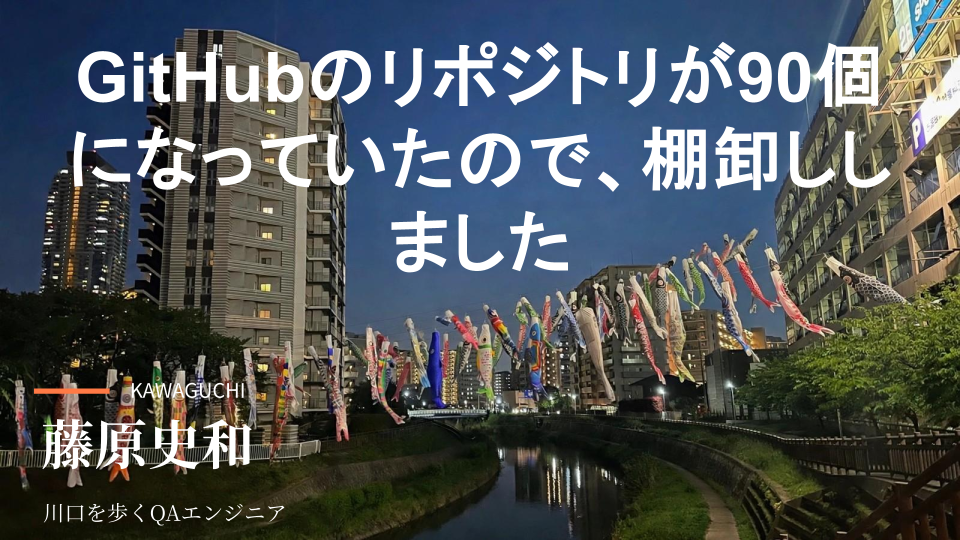
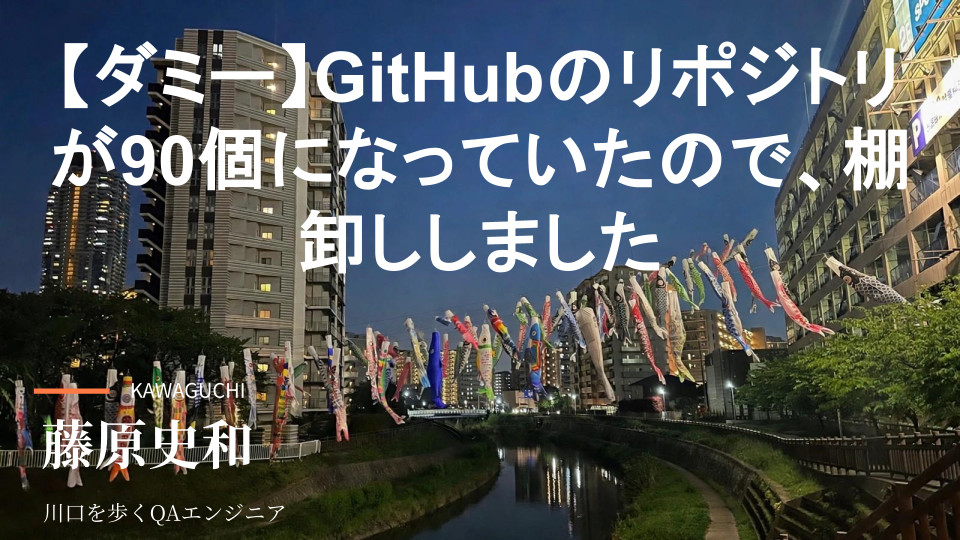
deploy: 642583110a407d07a9106808d49811a72313e3a2

Changed region(s): [[0.0625, 0.0593, 0.9375, 0.2074], [0.0312, 0.237, 0.9688, 0.3556], [0.3125, 0.3852, 0.6875, 0.5037]]

diff --git a/staging/1XYII5r8CBgQWmg8mCGA5wUe8JtIJSusXbUbw-T1SDvE.html b/staging/1XYII5r8CBgQWmg8mCGA5wUe8JtIJSusXbUbw-T1SDvE.html
@@ -1,0 +1,67 @@
+<!DOCTYPE html>
+<html lang="ja">
+  <head>
+    <meta charset="UTF-8" />
+    <meta name="viewport" content="width=device-width, initial-scale=1.0" />
+    <link rel="preconnect" href="https://fonts.googleapis.com">
+    <link rel="preconnect" href="https://fonts.gstatic.com" crossorigin>
+    <link rel="preconnect" href="https://script.google.com">
+    <link rel="preconnect" href="https://script.googleusercontent.com" crossorigin>
+    <link href="https://fonts.googleapis.com/css2?family=Shippori+Mincho+B1:wght@700;800&family=Zen+Kaku+Gothic+New:wght@400;500;700&display=swap" rel="stylesheet">
+    <link rel="icon" href="/blog/favicon.ico" sizes="any">
+    <link rel="icon" type="image/png" sizes="32x32" href="/blog/favicon-32.png">
+    <link rel="icon" type="image/png" sizes="16x16" href="/blog/favicon-16.png">
+    <link rel="apple-touch-icon" sizes="180x180" href="/blog/apple-touch-icon.png">
+    <meta property="og:title" content="2026-11-16 ブログ運営の裏側：ブログの中で、音楽が聴けるようになりました" />
+    <meta property="og:description" content="このブログの運営の裏側の話です。 川口の散歩やサイクリングの映像に、Sunoで作ったオリジナル曲を合わせる「SunoリリックVlog」を続けています。これまでは、曲を聴くにはSunoのページへ移動してもらう形でした。今回、まとめ記事の中にプ" />
+    <meta property="og:type" content="article" />
+    <meta property="og:url" content="https://freddiefujiwara.com/blog/staging/1XYII5r8CBgQWmg8mCGA5wUe8JtIJSusXbUbw-T1SDvE" />
+    <meta property="og:image" content="https://freddiefujiwara.com/blog/staging/ogp/1XYII5r8CBgQWmg8mCGA5wUe8JtIJSusXbUbw-T1SDvE.png" />
+    <meta property="og:image:width" content="1200" />
+    <meta property="og:image:height" content="630" />
+    <meta property="og:site_name" content="藤原史和｜川口を歩くQAエンジニア" />
+    <meta name="twitter:card" content="summary_large_image" />
+    <meta name="twitter:image" content="https://freddiefujiwara.com/blog/staging/ogp/1XYII5r8CBgQWmg8mCGA5wUe8JtIJSusXbUbw-T1SDvE.png" />
+    <script>
+      (function () {
+        var l = window.location;
+
+        // 404.html から /blog/?/xxx にされている想定
+        if (l.search && l.search.startsWith('?/')) {
+          var route = l.search.slice(2); // "xxx..."
+
+          // route に &a=b が混ざる可能性があるので分離
+          var extra = '';
+          var ampIndex = route.indexOf('&');
+          if (ampIndex !== -1) {
+            extra = '?' + route.slice(ampIndex + 1);
+            route = route.slice(0, ampIndex);
+          }
+
+          // /blog/ + route へ戻す（末尾/を1回だけ調整）
+          var base = l.pathname; // "/blog/"
+          if (!base.endsWith('/')) base += '/';
+          var newUrl = base + route + extra + l.hash;
+
+          window.history.replaceState(null, '', newUrl);
+        }
+      })();
+    </script>
+    <title>2026-11-16 ブログ運営の裏側：ブログの中で、音楽が聴けるようになりました</title>
+      <!-- Google tag (gtag.js) -->
+    <script async src="https://www.googletagmanager.com/gtag/js?id=G-W2C6FNCW86"></script>
+    <script>
+      window.dataLayer = window.dataLayer || [];
+      function gtag(){dataLayer.push(arguments);}
+      gtag('js', new Date());
+      // Page views are sent by the router (src/analytics.js) so SPA
+      // navigations are counted without duplicates.
+      gtag('config', 'G-W2C6FNCW86', { send_page_view: false });
+    </script>
+    <script type="module" crossorigin src="/blog/staging/assets/index-Dm9h2FAB.js"></script>
+    <link rel="stylesheet" crossorigin href="/blog/staging/assets/index-XsfYMYJy.css">
+  </head>
+  <body>
+    <div id="app"></div>
+  </body>
+</html>

diff --git a/staging/1XA6gLpWa6Zu3EOawAUMk0OyEZEdzpfVgastpDoohXC4.html b/staging/1XA6gLpWa6Zu3EOawAUMk0OyEZEdzpfVgastpDoohXC4.html
@@ -12,8 +12,8 @@
     <link rel="icon" type="image/png" sizes="32x32" href="/blog/favicon-32.png">
     <link rel="icon" type="image/png" sizes="16x16" href="/blog/favicon-16.png">
     <link rel="apple-touch-icon" sizes="180x180" href="/blog/apple-touch-icon.png">
-    <meta property="og:title" content="2026-11-08 GitHubのリポジトリが90個になっていたので、棚卸ししました" />
-    <meta property="og:description" content="GitHubのリポジトリが90個になっていたので、棚卸ししました 自分の GitHub アカウントにリポジトリがいくつあるのか、数えたことがありませんでした。整理を考えて数えてみたら、公開リポジトリだけで90個ありました。2011年のものか" />
+    <meta property="og:title" content="2026-11-08 【ダミー】GitHubのリポジトリが90個になっていたので、棚卸ししました" />
+    <meta property="og:description" content="※ダミー記事です。ステージング表示確認用のため、公開はしません。 GitHubのリポジトリが90個になっていたので、棚卸ししました 自分の GitHub アカウントにリポジトリがいくつあるのか、数えたことがありませんでした。整理を考えて数え" />
     <meta property="og:type" content="article" />
     <meta property="og:url" content="https://freddiefujiwara.com/blog/staging/1XA6gLpWa6Zu3EOawAUMk0OyEZEdzpfVgastpDoohXC4" />
     <meta property="og:image" content="https://freddiefujiwara.com/blog/staging/ogp/1XA6gLpWa6Zu3EOawAUMk0OyEZEdzpfVgastpDoohXC4.png" />
@@ -47,7 +47,7 @@
         }
       })();
     </script>
-    <title>2026-11-08 GitHubのリポジトリが90個になっていたので、棚卸ししました</title>
+    <title>2026-11-08 【ダミー】GitHubのリポジトリが90個になっていたので、棚卸ししました</title>
       <!-- Google tag (gtag.js) -->
     <script async src="https://www.googletagmanager.com/gtag/js?id=G-W2C6FNCW86"></script>
     <script>
